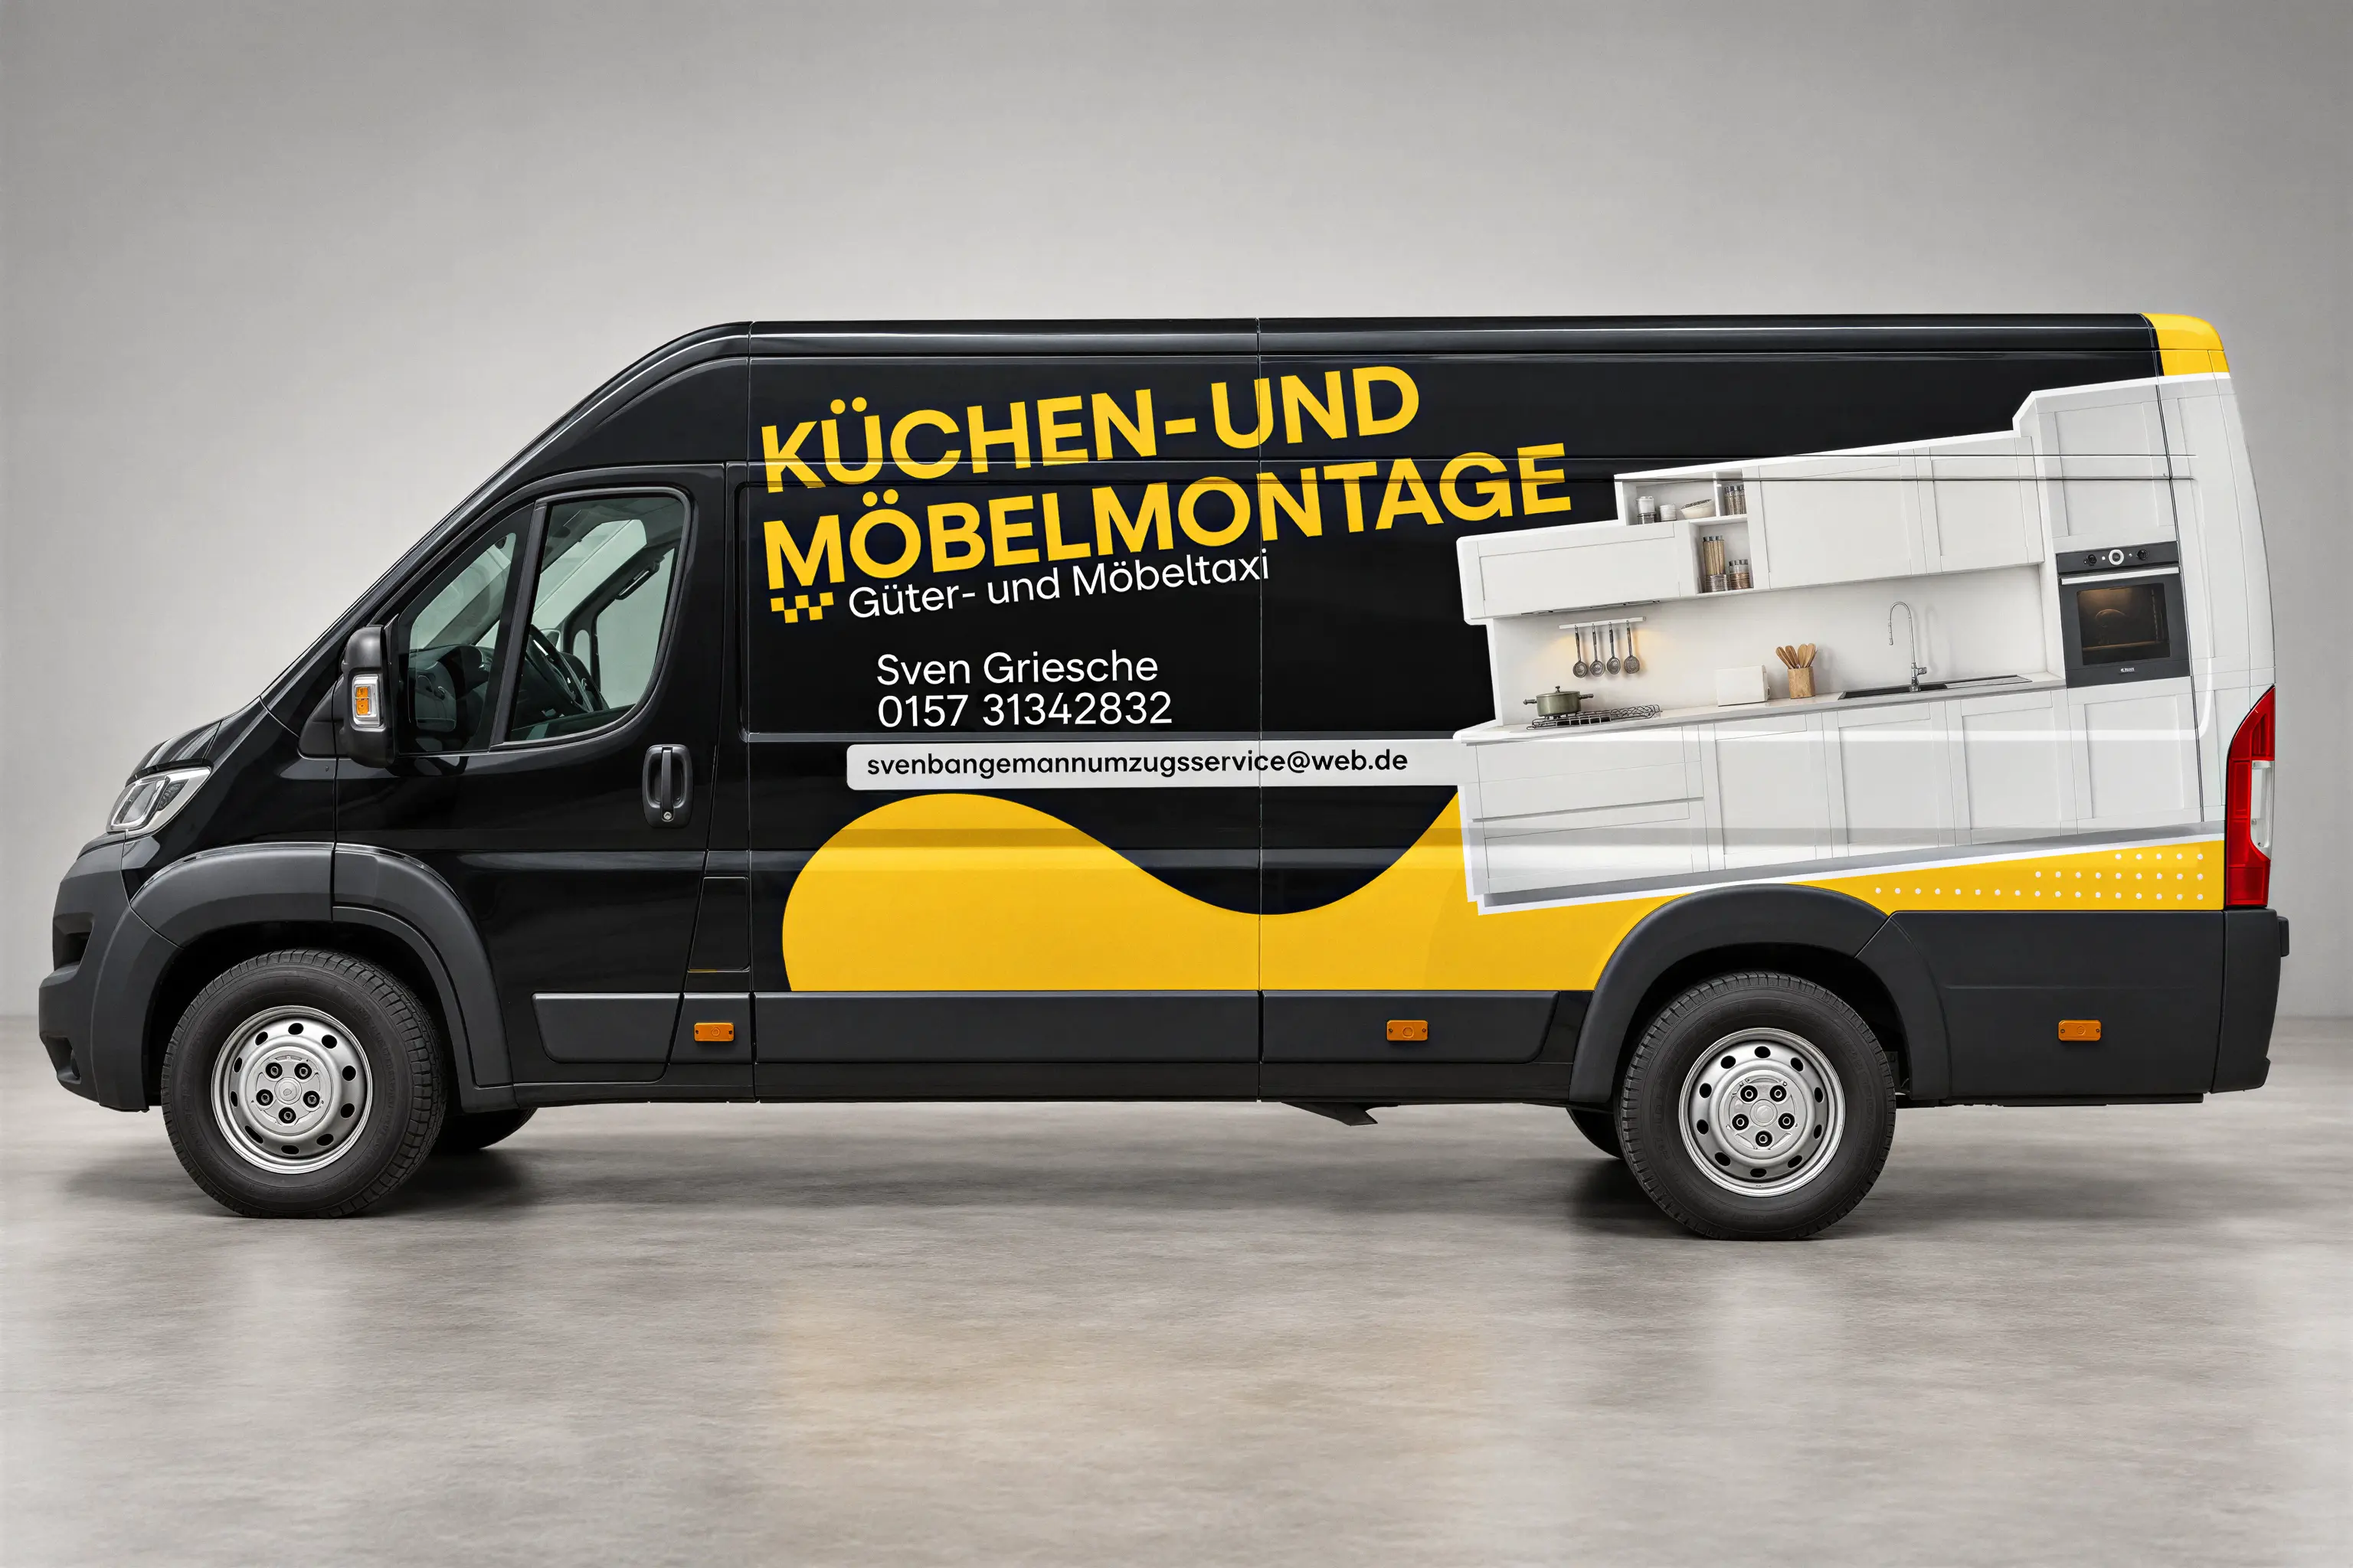
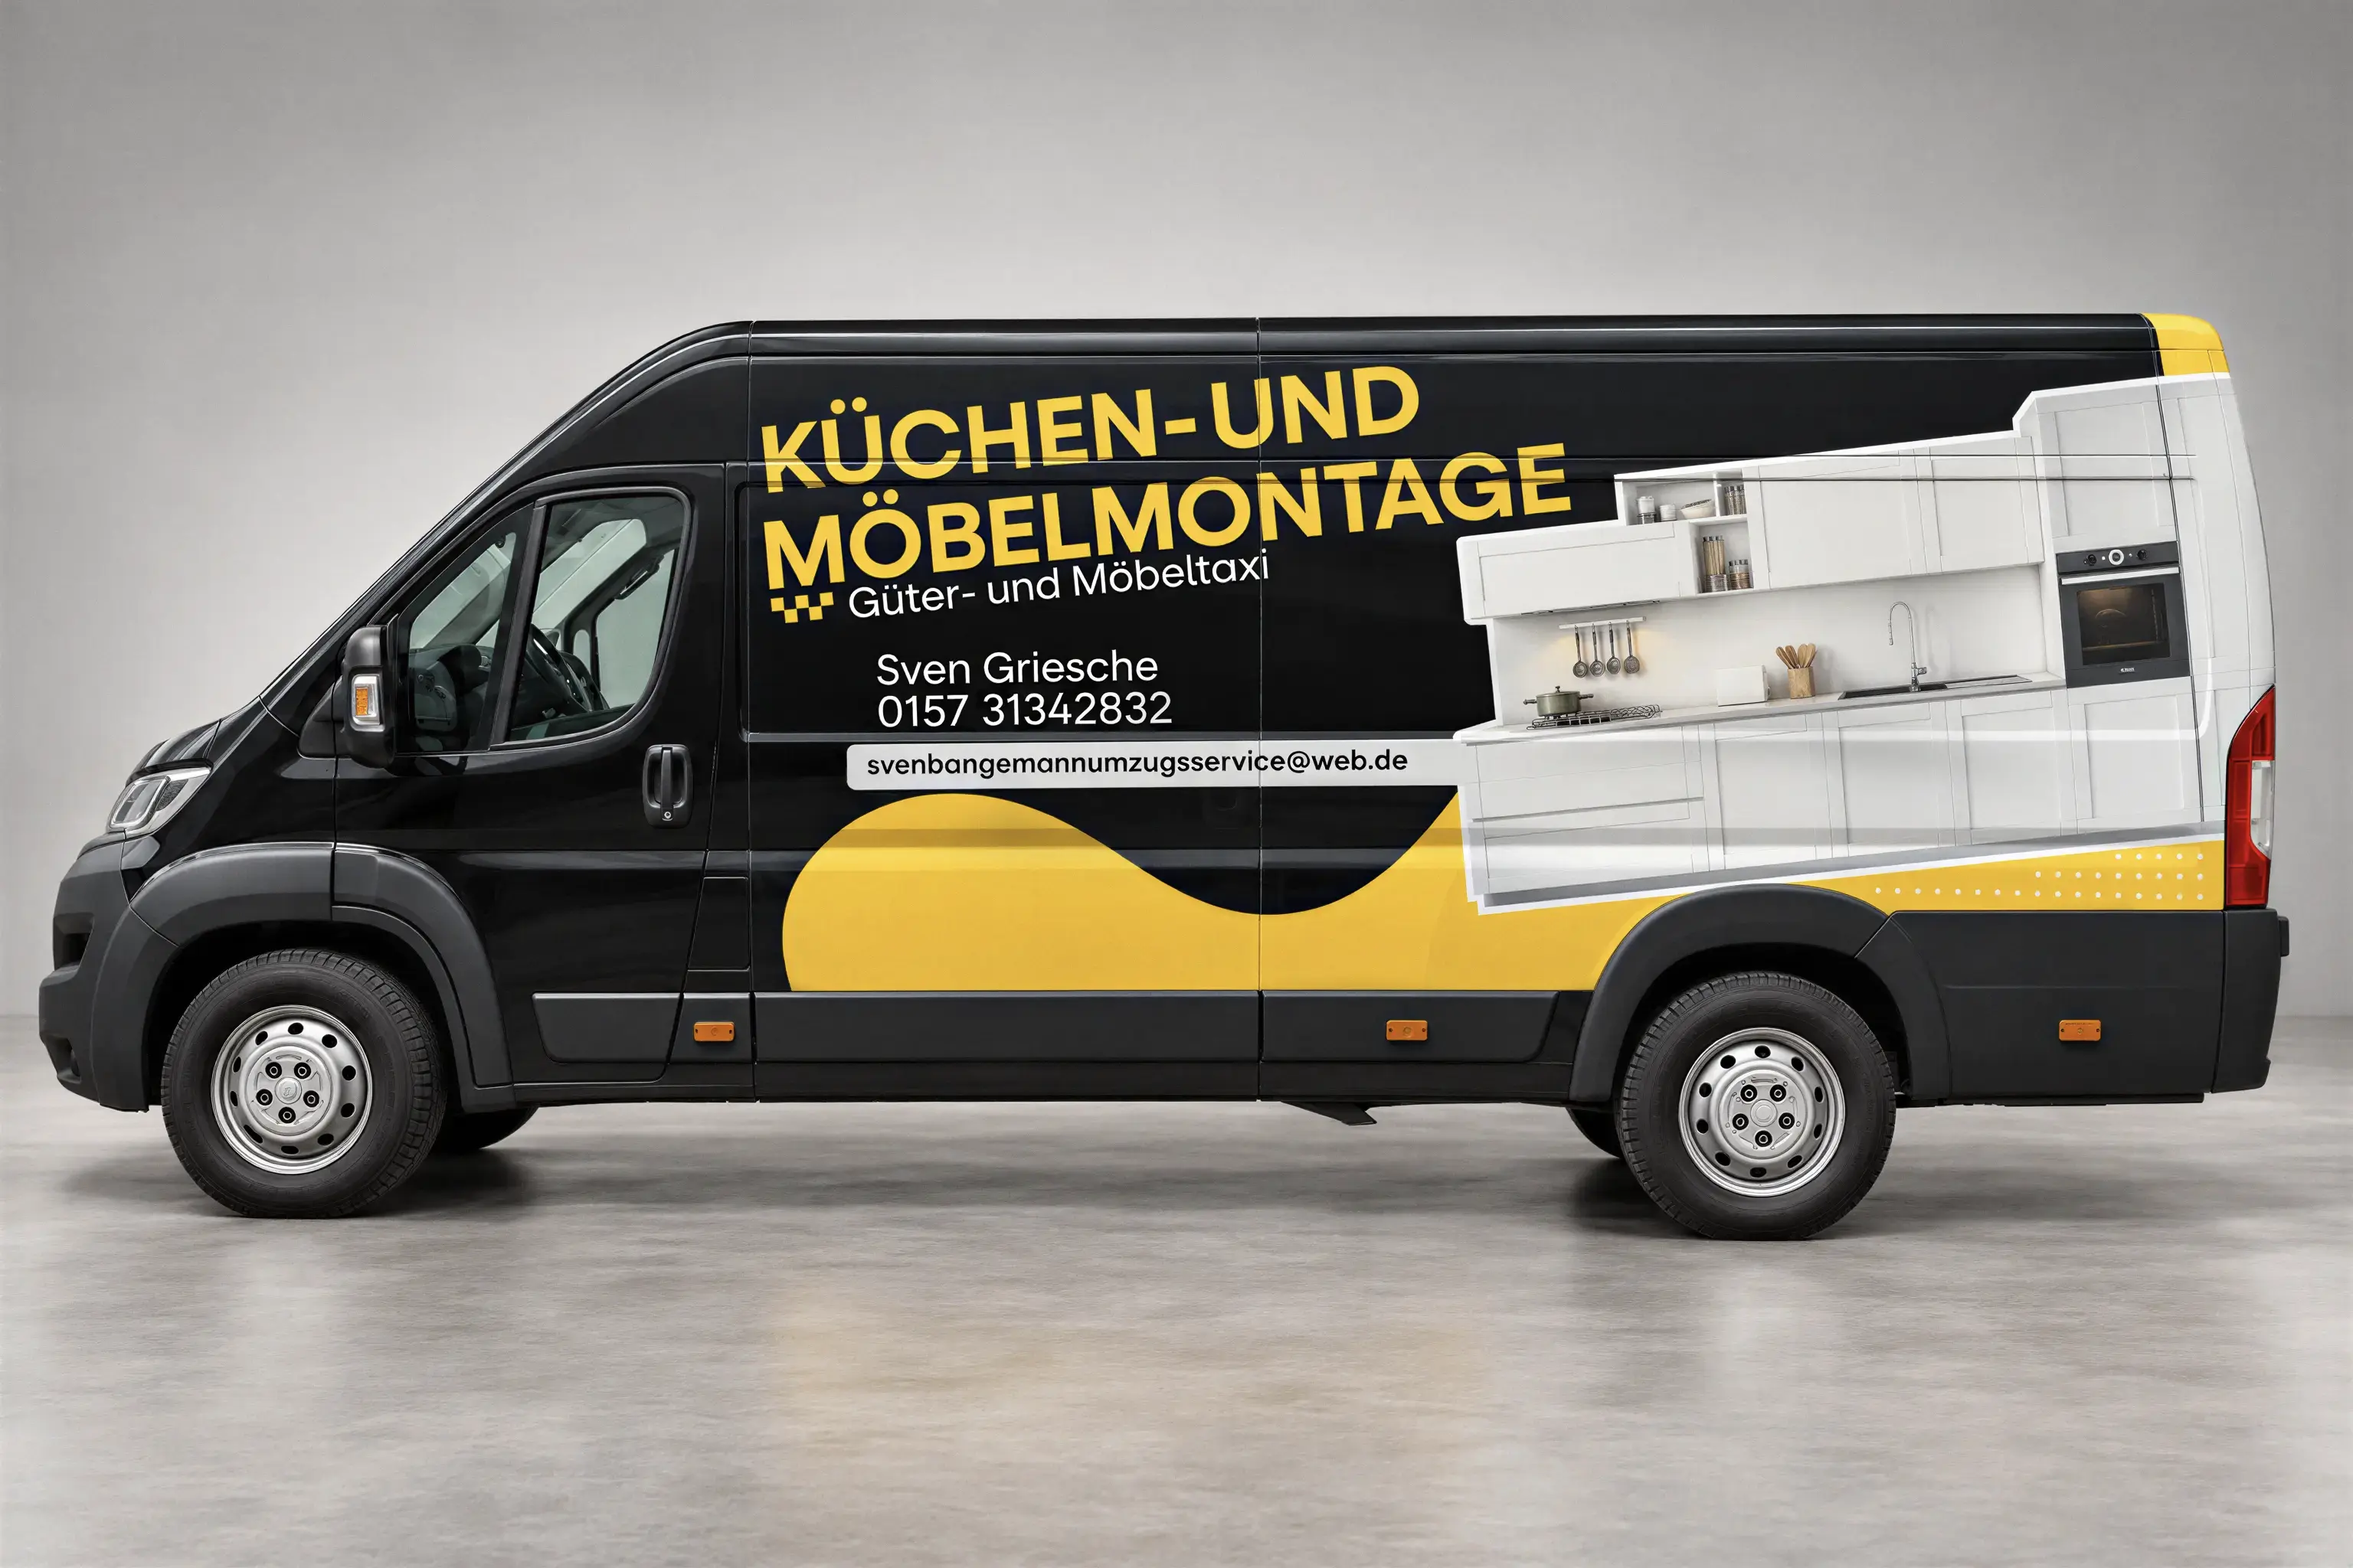
Refresh comparison images while preserving sliders

diff --git a/data.js b/data.js
@@ -566,7 +566,7 @@ const SITE = {
     },
     "folder": "./Car wrapping",
     "image": "./Car wrapping/1.webp",
-    "imageVersions": {"3": "5c30adca399a", "5": "13818cfb6760"},
+    "imageVersions": {"3": "5c30adca399a", "5": "13818cfb6760", "6b.webp": "2f43a94ba333", "7b.webp": "e11c00adf6c9"},
     "link": "./case-study.html?project=car-wrapping",
     "blocks": [{"type": "image-row", "nums": [2, 3]}, {"type": "image-row", "nums": [5, 4]}, {"type": "comparison", "before": "6a.webp", "after": "6b.webp", "label": {"en": "Side view", "de": "Seitenansicht", "uk": "Вигляд збоку"}}, {"type": "comparison", "before": "7a.webp", "after": "7b.webp", "label": {"en": "Rear view", "de": "Heckansicht", "uk": "Вигляд ззаду"}}, {"type": "image-pair", "nums": [8, 9], "heading": {"en": "visibility in the city", "de": "sichtbarkeit im stadtbild", "uk": "помітність у місті"}, "text": {"en": "Yellow typography and a large kitchen image contrast with the black bodywork, helping the vehicle stand out in a busy cityscape and making its services immediately recognisable.", "de": "Gelbe Typografie und ein großflächiges Küchenmotiv setzen sich deutlich von der schwarzen Karosserie ab. So fällt das Fahrzeug im belebten Stadtbild auf und vermittelt sein Angebot auf einen Blick.", "uk": "Жовта типографіка та велике зображення кухні контрастують із чорним кузовом, виділяючи авто в міському середовищі й роблячи його послуги зрозумілими з першого погляду."}}],
     "caseStudy": {

diff --git a/case-study.html b/case-study.html
@@ -170,8 +170,8 @@
   <!-- floating contact button -->
   <a class="contact-fab" href="mailto:savchenko.body@gmail.com" data-i18n="footer.fab">contact me</a>
 
-  <script src="./data.js?v=20261017-car-city"></script>
+  <script src="./data.js?v=20261017-compare-ad8002f0b8"></script>
   <script src="/data-uk.js?v=20261017-citroen-jumper"></script>
-  <script src="./app.js?v=20261017-car-city"></script>
+  <script src="./app.js?v=20261017-compare-ad8002f0b8"></script>
 </body>
 </html>

diff --git a/index.html b/index.html
@@ -189,8 +189,8 @@
   <!-- floating contact button -->
   <a class="contact-fab" href="mailto:savchenko.body@gmail.com" data-i18n="footer.fab">contact me</a>
 
-  <script src="./data.js?v=20261017-car-city"></script>
+  <script src="./data.js?v=20261017-compare-ad8002f0b8"></script>
   <script src="/data-uk.js?v=20261017-citroen-jumper"></script>
-  <script src="./app.js?v=20261017-car-city"></script>
+  <script src="./app.js?v=20261017-compare-ad8002f0b8"></script>
 </body>
 </html>

diff --git a/about/index.html b/about/index.html
@@ -137,8 +137,8 @@
   <!-- floating contact button -->
   <a class="contact-fab" href="mailto:savchenko.body@gmail.com" data-i18n="footer.fab">contact me</a>
 
-  <script src="/data.js?v=20261017-car-city"></script>
+  <script src="/data.js?v=20261017-compare-ad8002f0b8"></script>
   <script src="/data-uk.js?v=20261017-citroen-jumper"></script>
-  <script src="/app.js?v=20261017-car-city"></script>
+  <script src="/app.js?v=20261017-compare-ad8002f0b8"></script>
 </body>
 </html>

diff --git a/app.js b/app.js
@@ -918,7 +918,8 @@
 
     function picture(file, label, className) {
       const img = document.createElement("img");
-      img.src = p.folder + "/" + file;
+      const version = p.imageVersions && p.imageVersions[file];
+      img.src = p.folder + "/" + file + (version ? "?v=" + encodeURIComponent(version) : "");
       img.alt = p.title + " — " + view + " — " + label;
       img.className = className;
       img.loading = "lazy";
